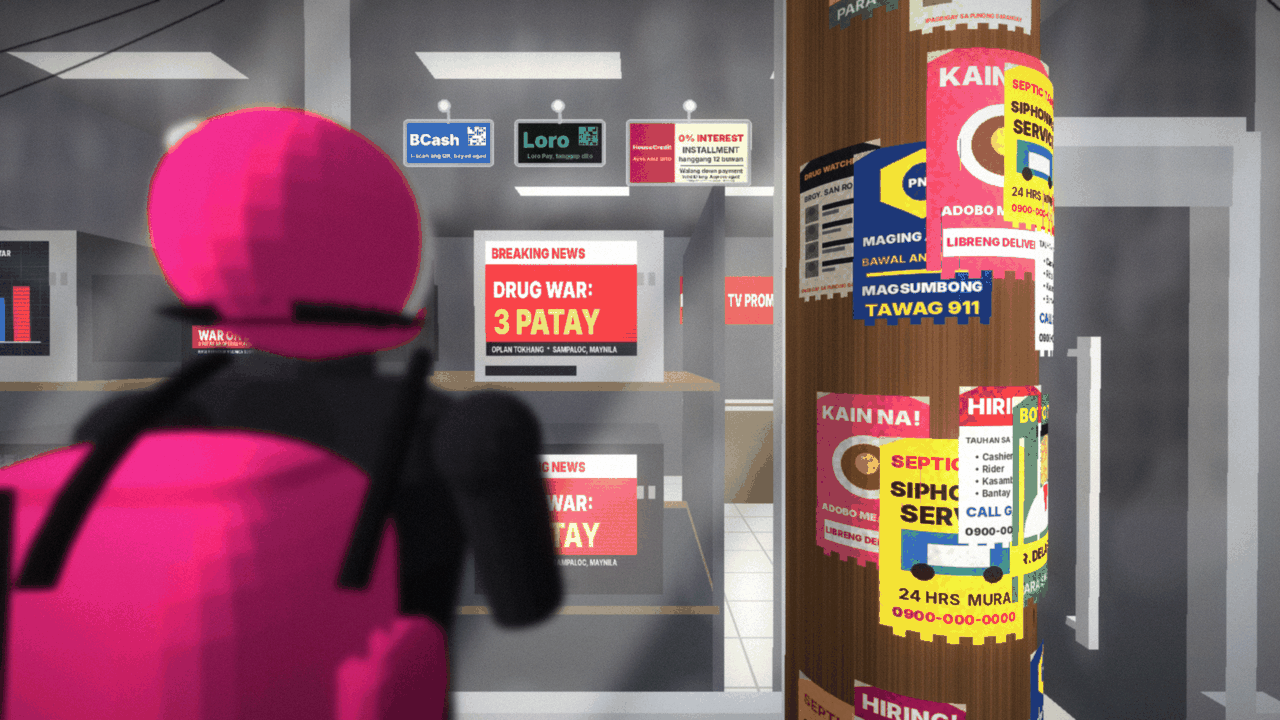
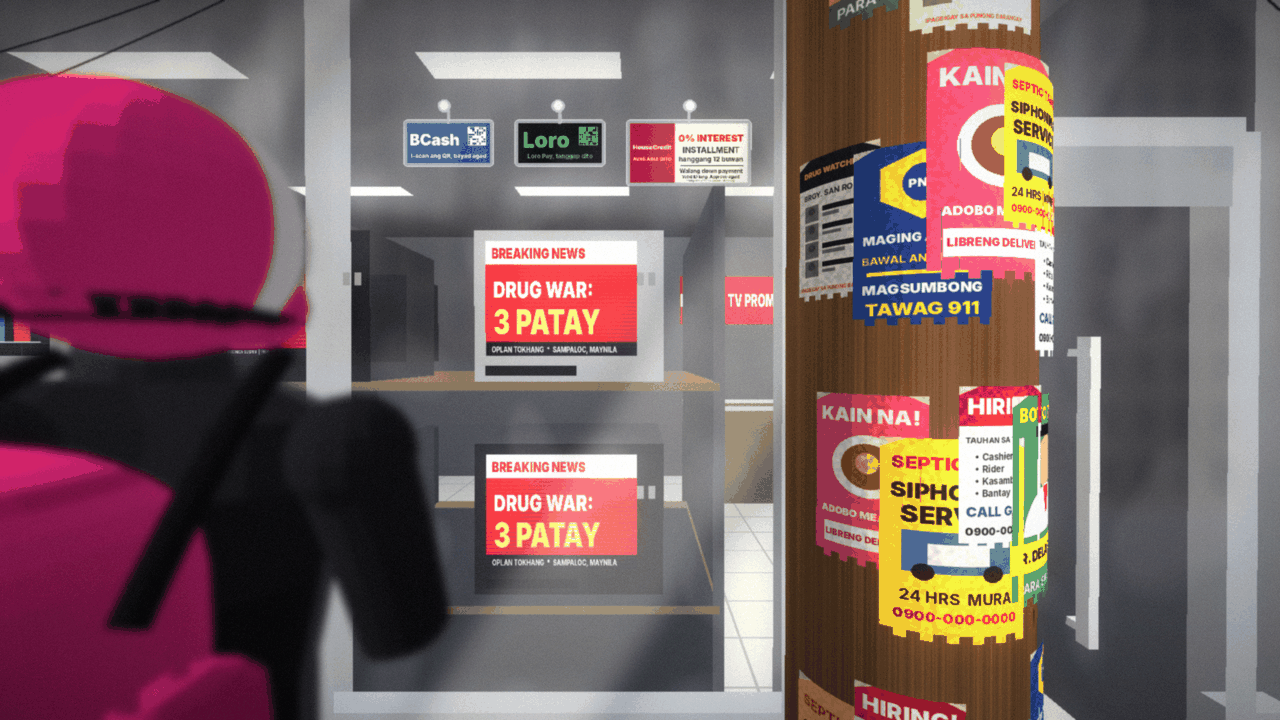
fix(art): bring Peter in the TV news frame back to the nearer, left-edge framing
Claude-Session: https://claude.ai/code/session_018qtt7uTeVSGsnvQanUjafP

diff --git a/tools/tv_store.py b/tools/tv_store.py
@@ -742,7 +742,7 @@ def build(size) -> Image.Image:
                (0, 0, 0), texture=pole_shadow, layer=1)
 
     # ---- the rider's shadow, thrown towards the shop, away from the sun
-    rider_x, rider_z = 0.72, -0.72
+    rider_x, rider_z = 0.56, -0.8
     shadow = Image.new("RGBA", (160, 520), (0, 0, 0, 0))
     sd = ImageDraw.Draw(shadow)
     sd.ellipse((58, 460, 102, 510), fill=(8, 8, 14, 190))

diff --git a/HANDOFF.md b/HANDOFF.md
@@ -173,7 +173,7 @@ Each is a tagged release on `main`. `git log --oneline` and `git tag -l` show th
   `bike_parts.py` shapes (glossy pink helmet with a rubber rim, a stripe and a shine; a nylon jacket with
   creases and a reflective band; shoulders and arms; the pink backpack with straps, a zip and side pockets),
   lights him with the sun, a cool bounce from the shop's screens and a warm fill, and softens him a little
-  (lens blur) over the sharp shop. This replaces the flat 2D sprite of `rider_back.py` (kept in the repo, now
+  (lens blur) over the sharp shop. He stands at (0.56, -0.8): nearer the camera and at the left edge, as before. This replaces the flat 2D sprite of `rider_back.py` (kept in the repo, now
   unused). Frame 1 (the skyway) was left as it was; the denim leg, boot and jacket detail added to
   `bike_parts.py` also show there when they are in view.
 - **Shift Mode carousel (branch claude/shift-carousel, from your sketch):** Story Mode is now Slot -> Load /
